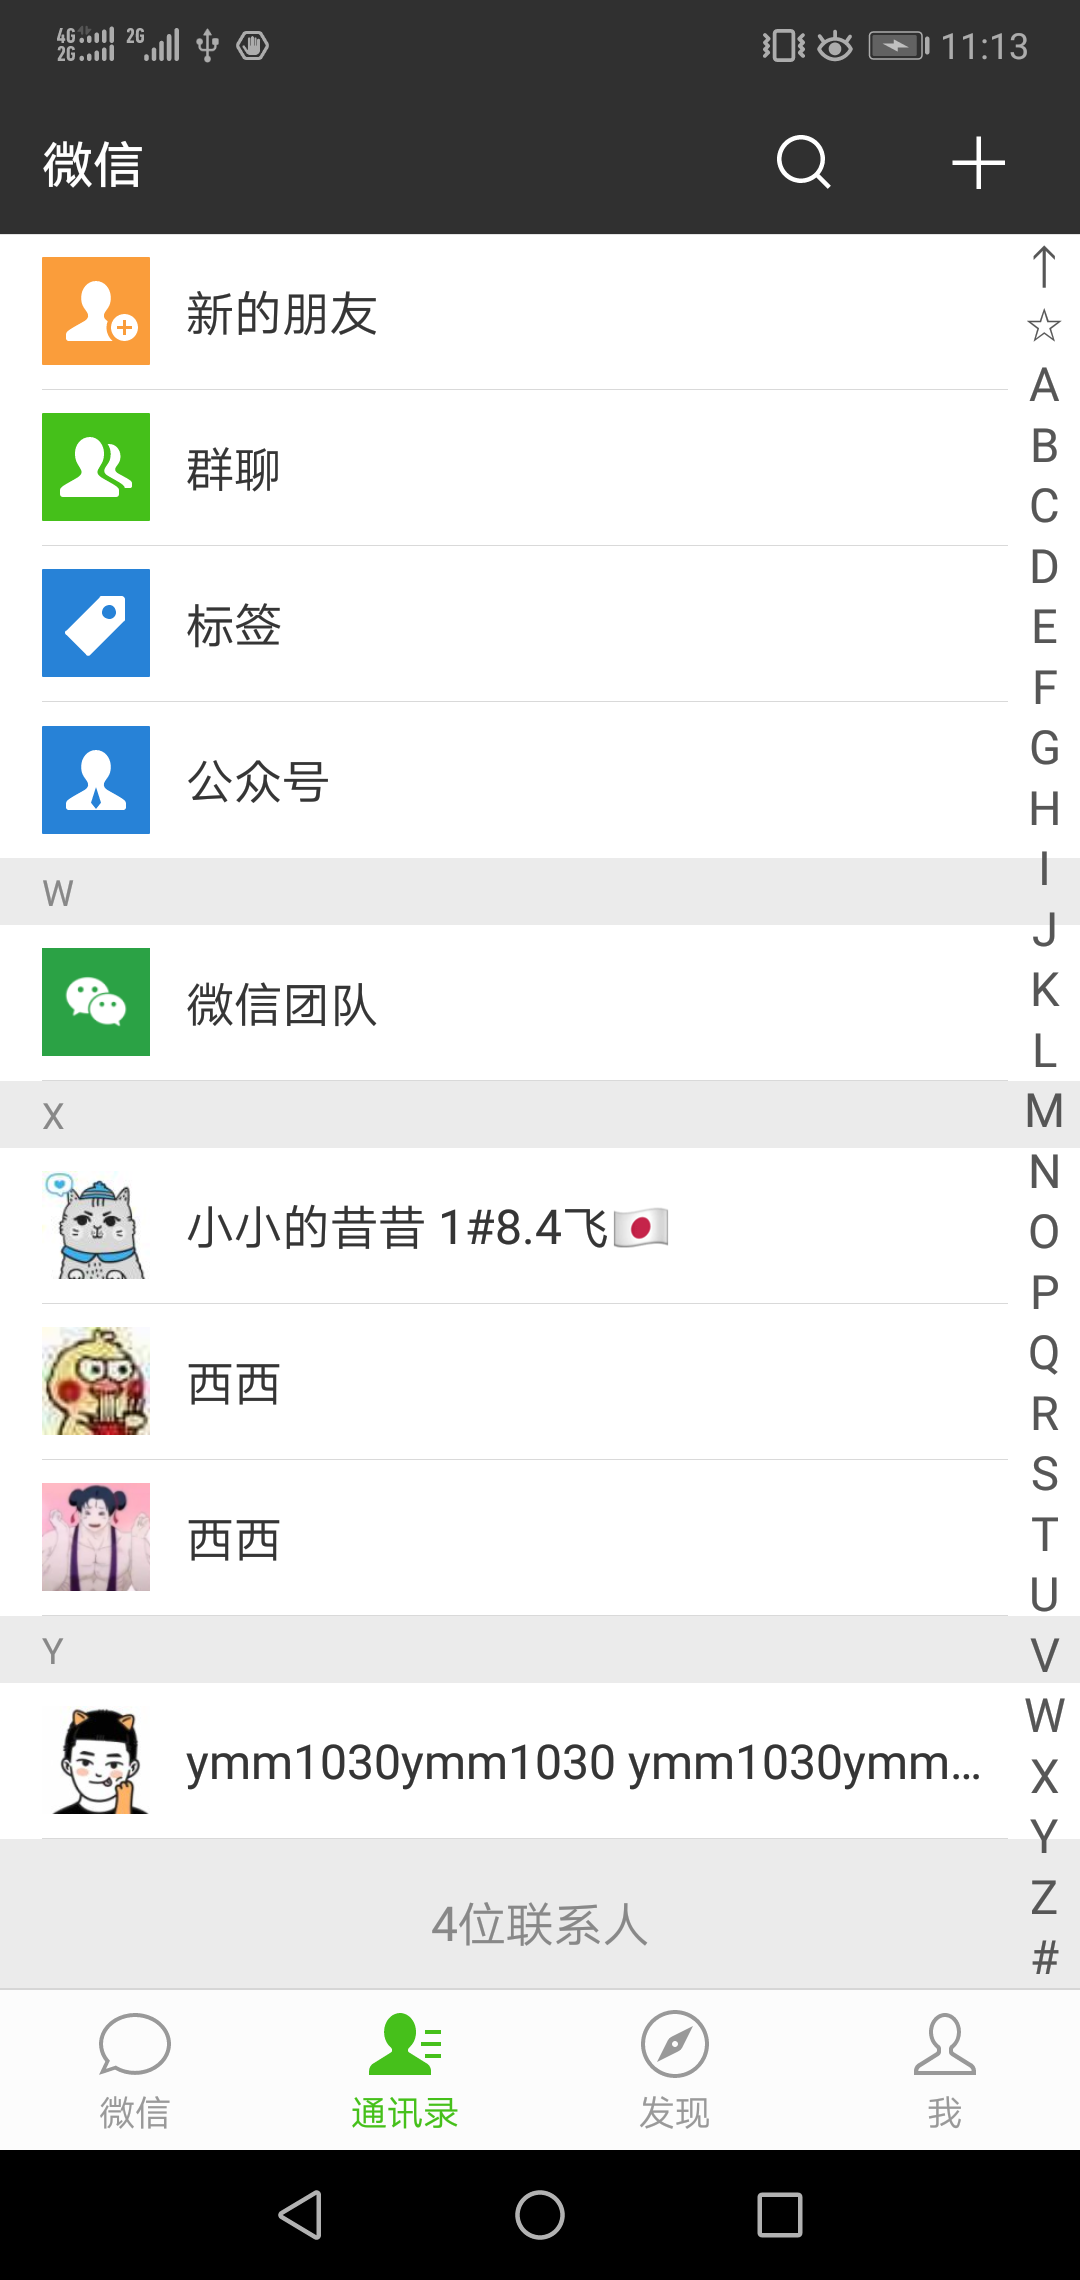
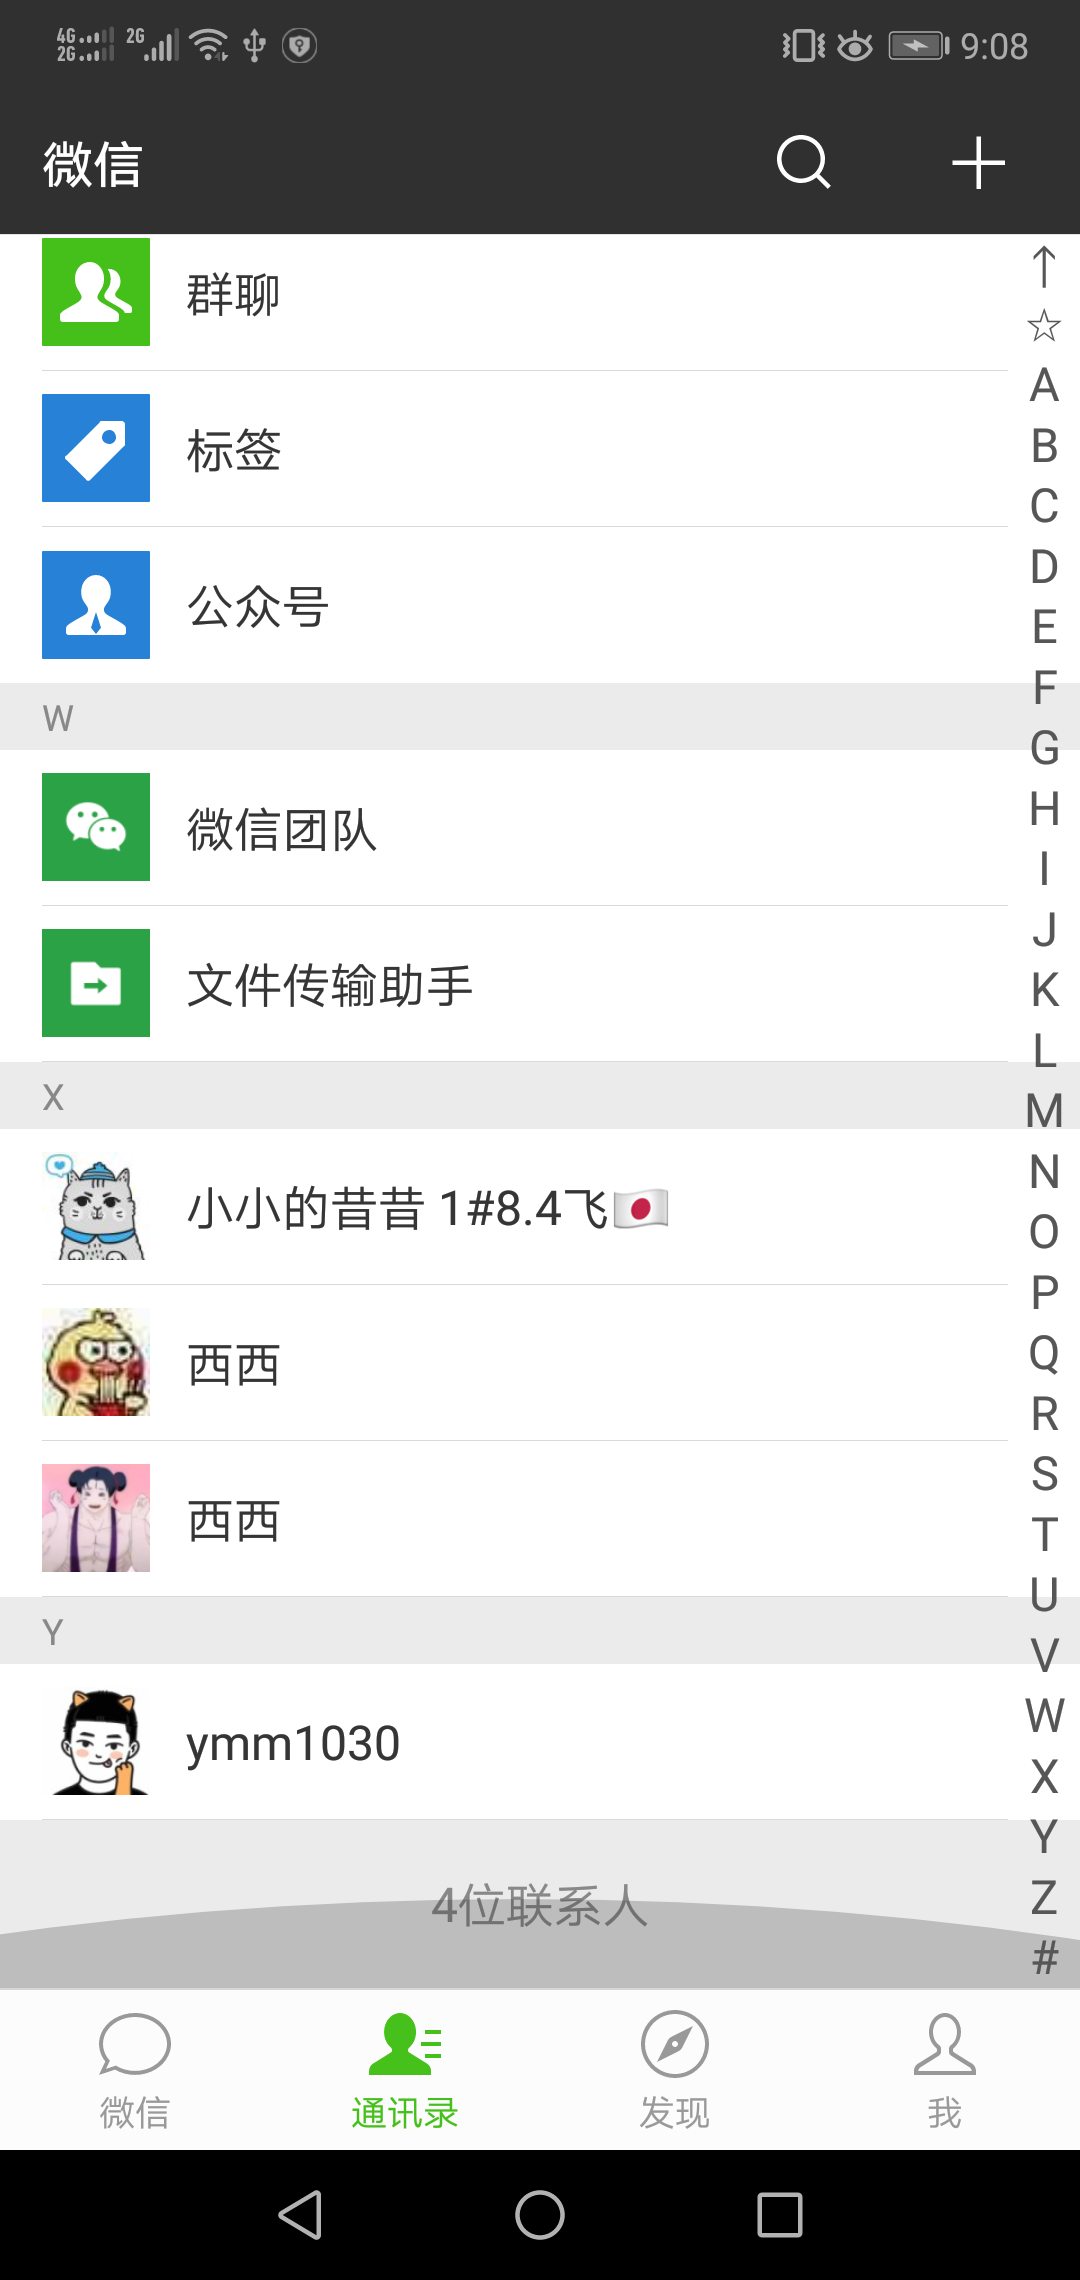
the very simple 1.0

diff --git a/ADBTool.py b/ADBTool.py
@@ -2,8 +2,8 @@ import os, subprocess, sys, time
 
 class ADBTool(object):
     def __init__(self):
-        # if os.path.exists('screenshot.png'):
-        #     os.remove('screenshot.png')
+        if os.path.exists('screenshot.png'):
+            os.remove('screenshot.png')
         self.adb_path = os.path.join(os.getcwd(), 'Tools/adb')
 
     def pull_screen(self, name='screenshot.png'):
@@ -24,11 +24,25 @@ class ADBTool(object):
         process = subprocess.Popen('{} shell input tap {:d} {:d}'.format(self.adb_path, x, y), shell=True)
         process.wait()
 
+    def swipe(self, x1, y1, x2, y2):
+        process = subprocess.Popen('{} shell input swipe {:d} {:d} {:d} {:d}'.format(self.adb_path, x1, y1, x2, y2), shell=True)
+        process.wait()
+
+    def long_press(self, x, y, duration):
+        process = subprocess.Popen('{} shell input swipe {:d} {:d} {:d} {:d} {:d}'.format(self.adb_path, x, y, x+5, y+5, duration), shell=True)
+        process.wait()
+
 if __name__ == '__main__':
     adt = ADBTool()
     adt.press_xy(500, 1250) #enter the contact info
     adt.press_xy(560, 1470) #enter the chat interface
-    time.sleep(1) 
+    time.sleep(1)
+    adt.long_press(200, 2100, 2000) #long press text edit
+    adt.press_xy(180, 1970) #press paste
+    adt.press_xy(1000, 2070) #press send
     adt.press_back()
-    adt.press_xy(400, 2060) #back to contact list
+    adt.press_xy(400, 2060) #press contact list
+    # adt.swipe(500, 1900, 500, 400)
+    # time.sleep(2)
+    # adt.swipe(500, 400, 500, 1900)
     

diff --git a/WCAdapter.py b/WCAdapter.py
@@ -1,0 +1,34 @@
+import time
+
+class WCAdapter(object):
+    def __init__(self, adb, cv):
+        self.adb = adb
+        self.cv = cv
+
+    def handleContact(self, contact_rect):
+        x, y, w, h = contact_rect
+        x = int(x + w/2)
+        y = int(y + h/2)
+        # print('contact_rect is %s, and will press:%d, %d' % (contact_rect, x, y))
+        self.adb.press_xy(x, y) #enter the contact info
+        self.adb.press_xy(560, 1470) #enter the chat interface
+        time.sleep(1)
+        self.adb.long_press(200, 2100, 2000) #long press text edit
+        self.adb.press_xy(180, 1970) #press paste
+        self.adb.press_xy(1000, 2070) #press send
+        self.adb.press_back()
+        self.adb.press_xy(400, 2060) #press contact list
+
+    def start(self, contact_list):
+        for contact_rect in contact_list:
+            self.handleContact(contact_rect)
+
+    def execute(self):
+        self.adb.pull_screen()
+        contact_list = self.cv.handle()
+        print(contact_list)
+        while len(contact_list):
+            self.start(contact_list)
+            self.adb.swipe(500, 1900, 500, 400)
+            self.adb.pull_screen()
+            contact_list = self.cv.handle()

diff --git a/CVHandler.py b/CVHandler.py
@@ -17,6 +17,7 @@ class CVHandler(object):
         self.IGNORED_CONTACT.append(cv2.imread('ignore/3.png'))
         self.IGNORED_CONTACT.append(cv2.imread('ignore/4.png'))
         self.IGNORED_CONTACT.append(cv2.imread('ignore/5.png'))
+        self.IGNORED_CONTACT.append(cv2.imread('ignore/6.png'))
 
         self.last_10_contacts = []
 
@@ -61,6 +62,7 @@ class CVHandler(object):
                         rect = [0, self.TOP + i - continues_colored, contact.shape[1], contact.shape[0]]
                         print("Get a contact at {}!".format(rect))
                         pendingAreas.append(rect)
+                        self.saveContact(contact)
                 continues_colored = 1
             else:
                 continues_colored += 1
@@ -70,7 +72,7 @@ class CVHandler(object):
 
     def saveContact(self, contact):
         self.last_10_contacts.append(contact)
-        if len(self.last_10_contacts > 10):
+        if len(self.last_10_contacts) > 10:
             self.last_10_contacts = self.last_10_contacts[1:]
 
     def isHandledContact(self, contact):

diff --git a/main.py b/main.py
@@ -1,6 +1,8 @@
 from CVHandler import CVHandler
 from ADBTool import ADBTool
+from WCAdapter import WCAdapter
 
-v = CVHandler()
-l = v.handle()
-print(l)
+adb = ADBTool()
+cv = CVHandler()
+wc = WCAdapter(adb, cv)
+wc.execute()
